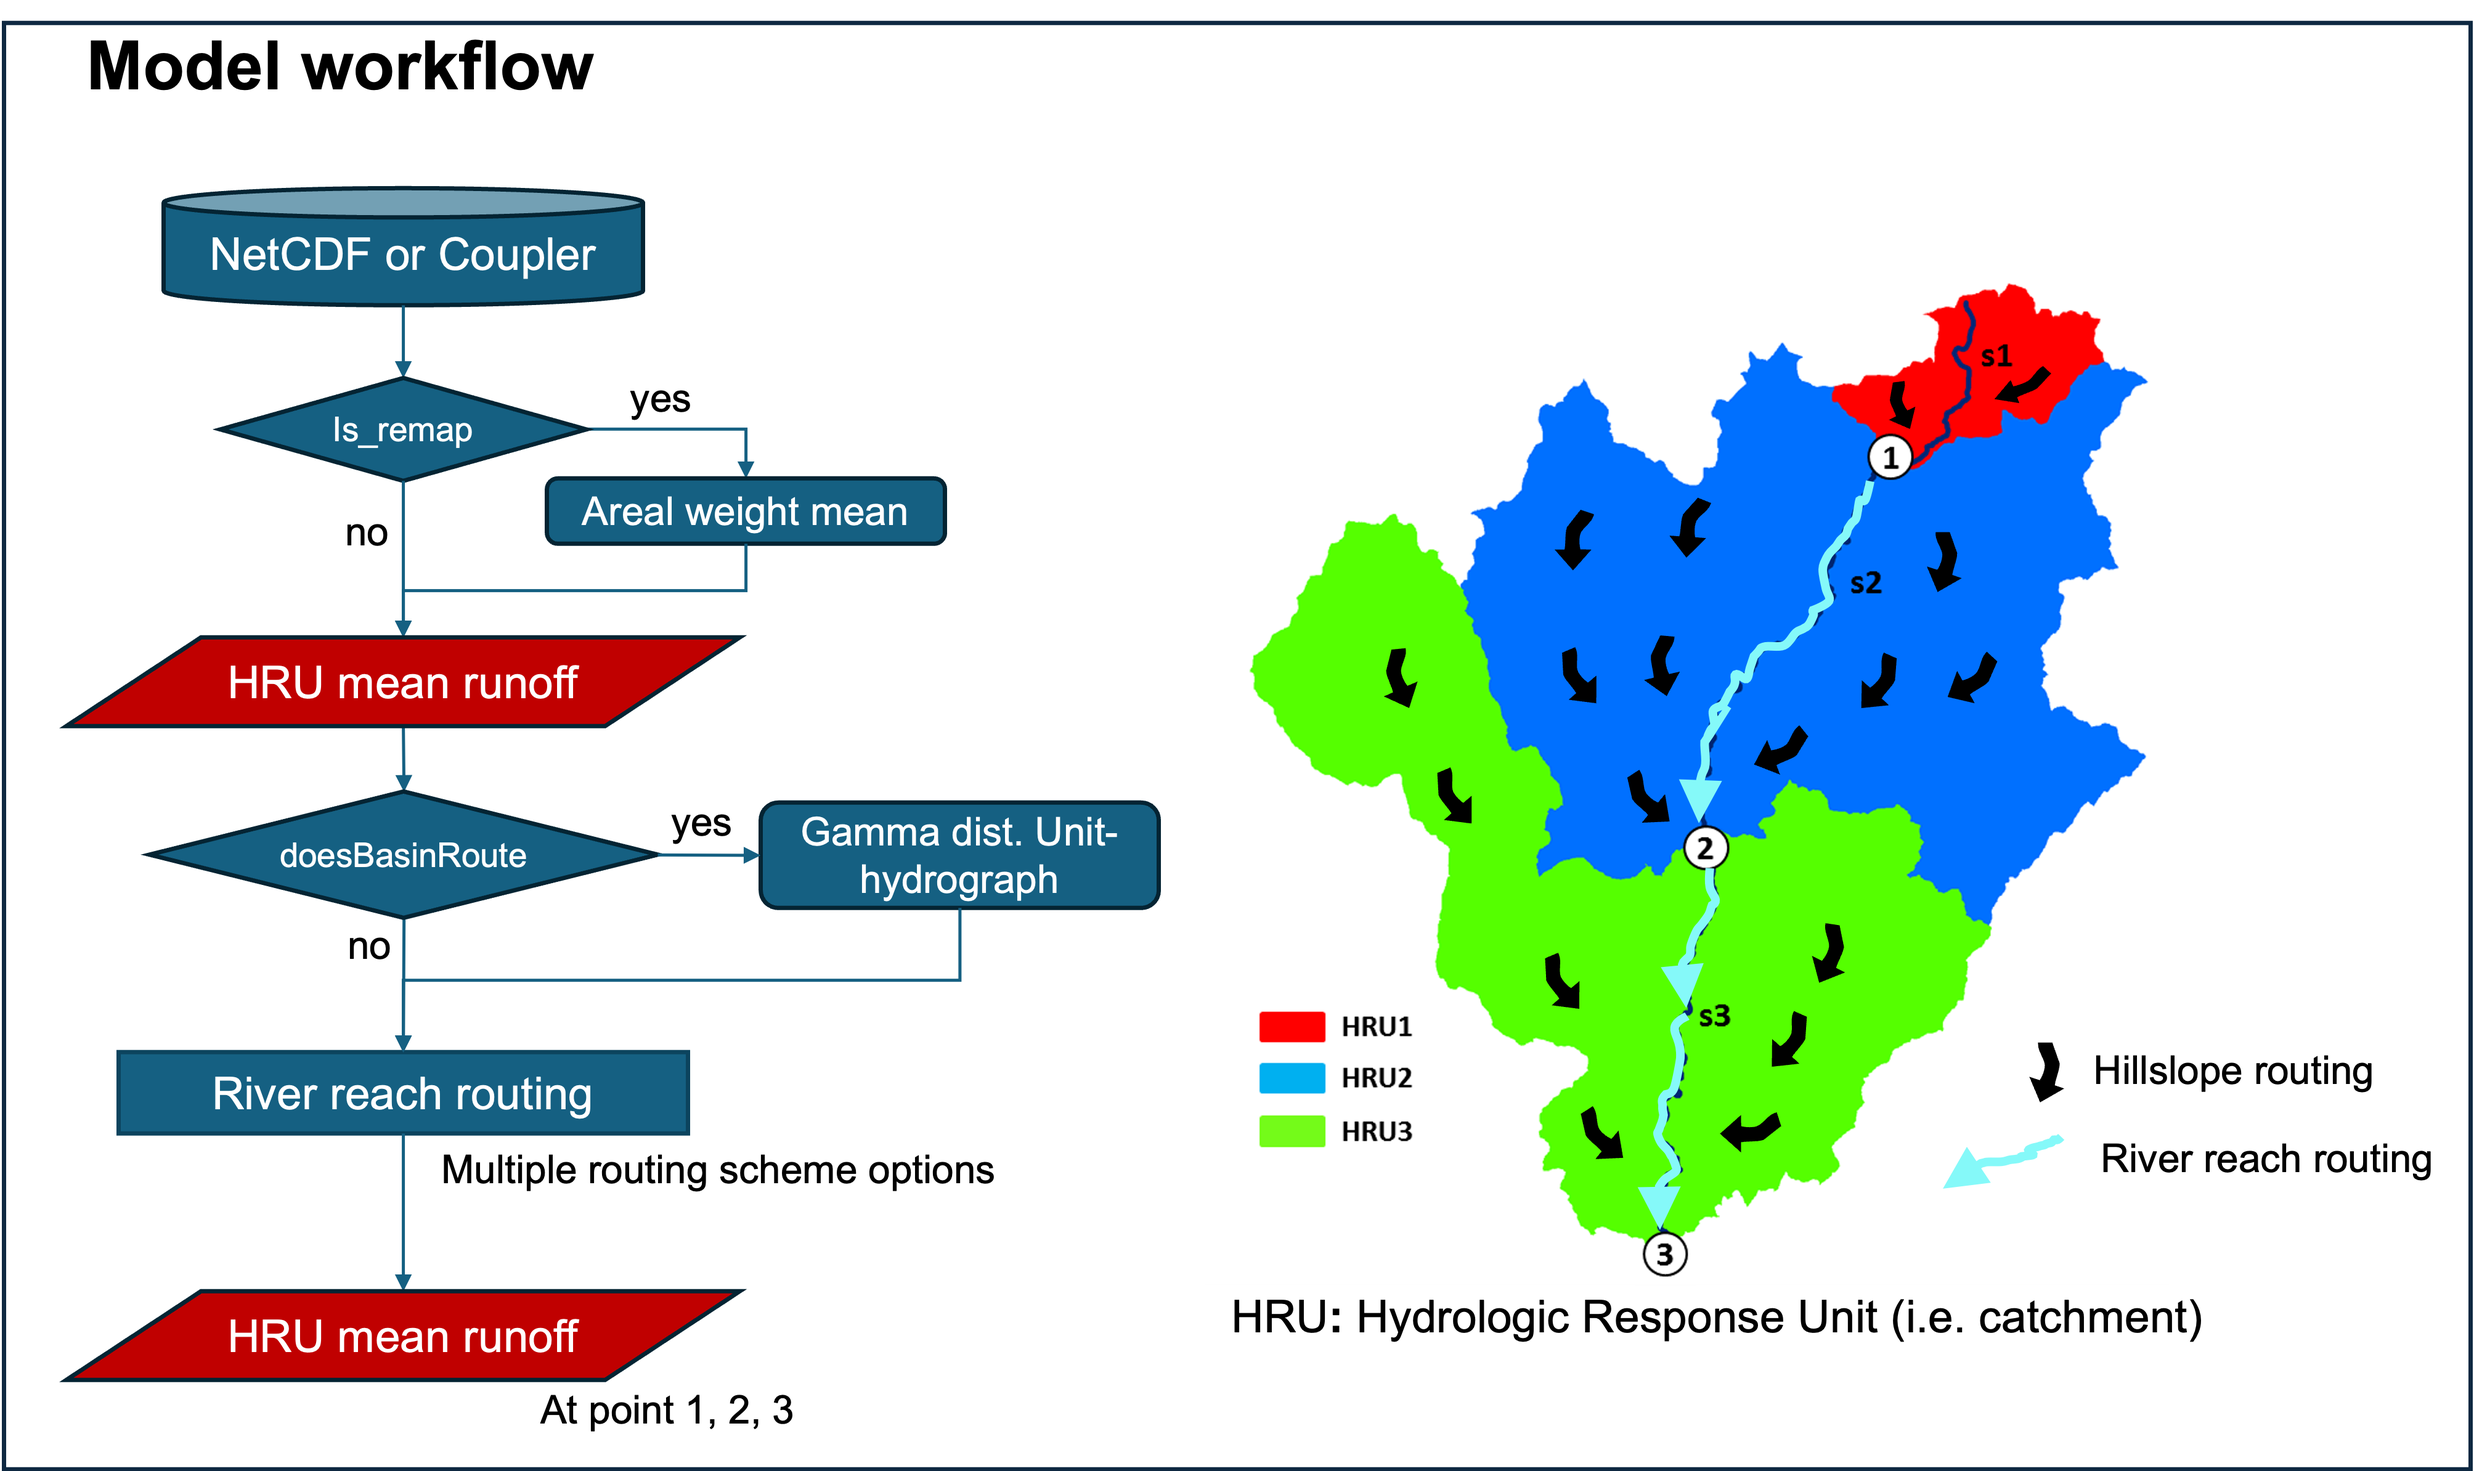
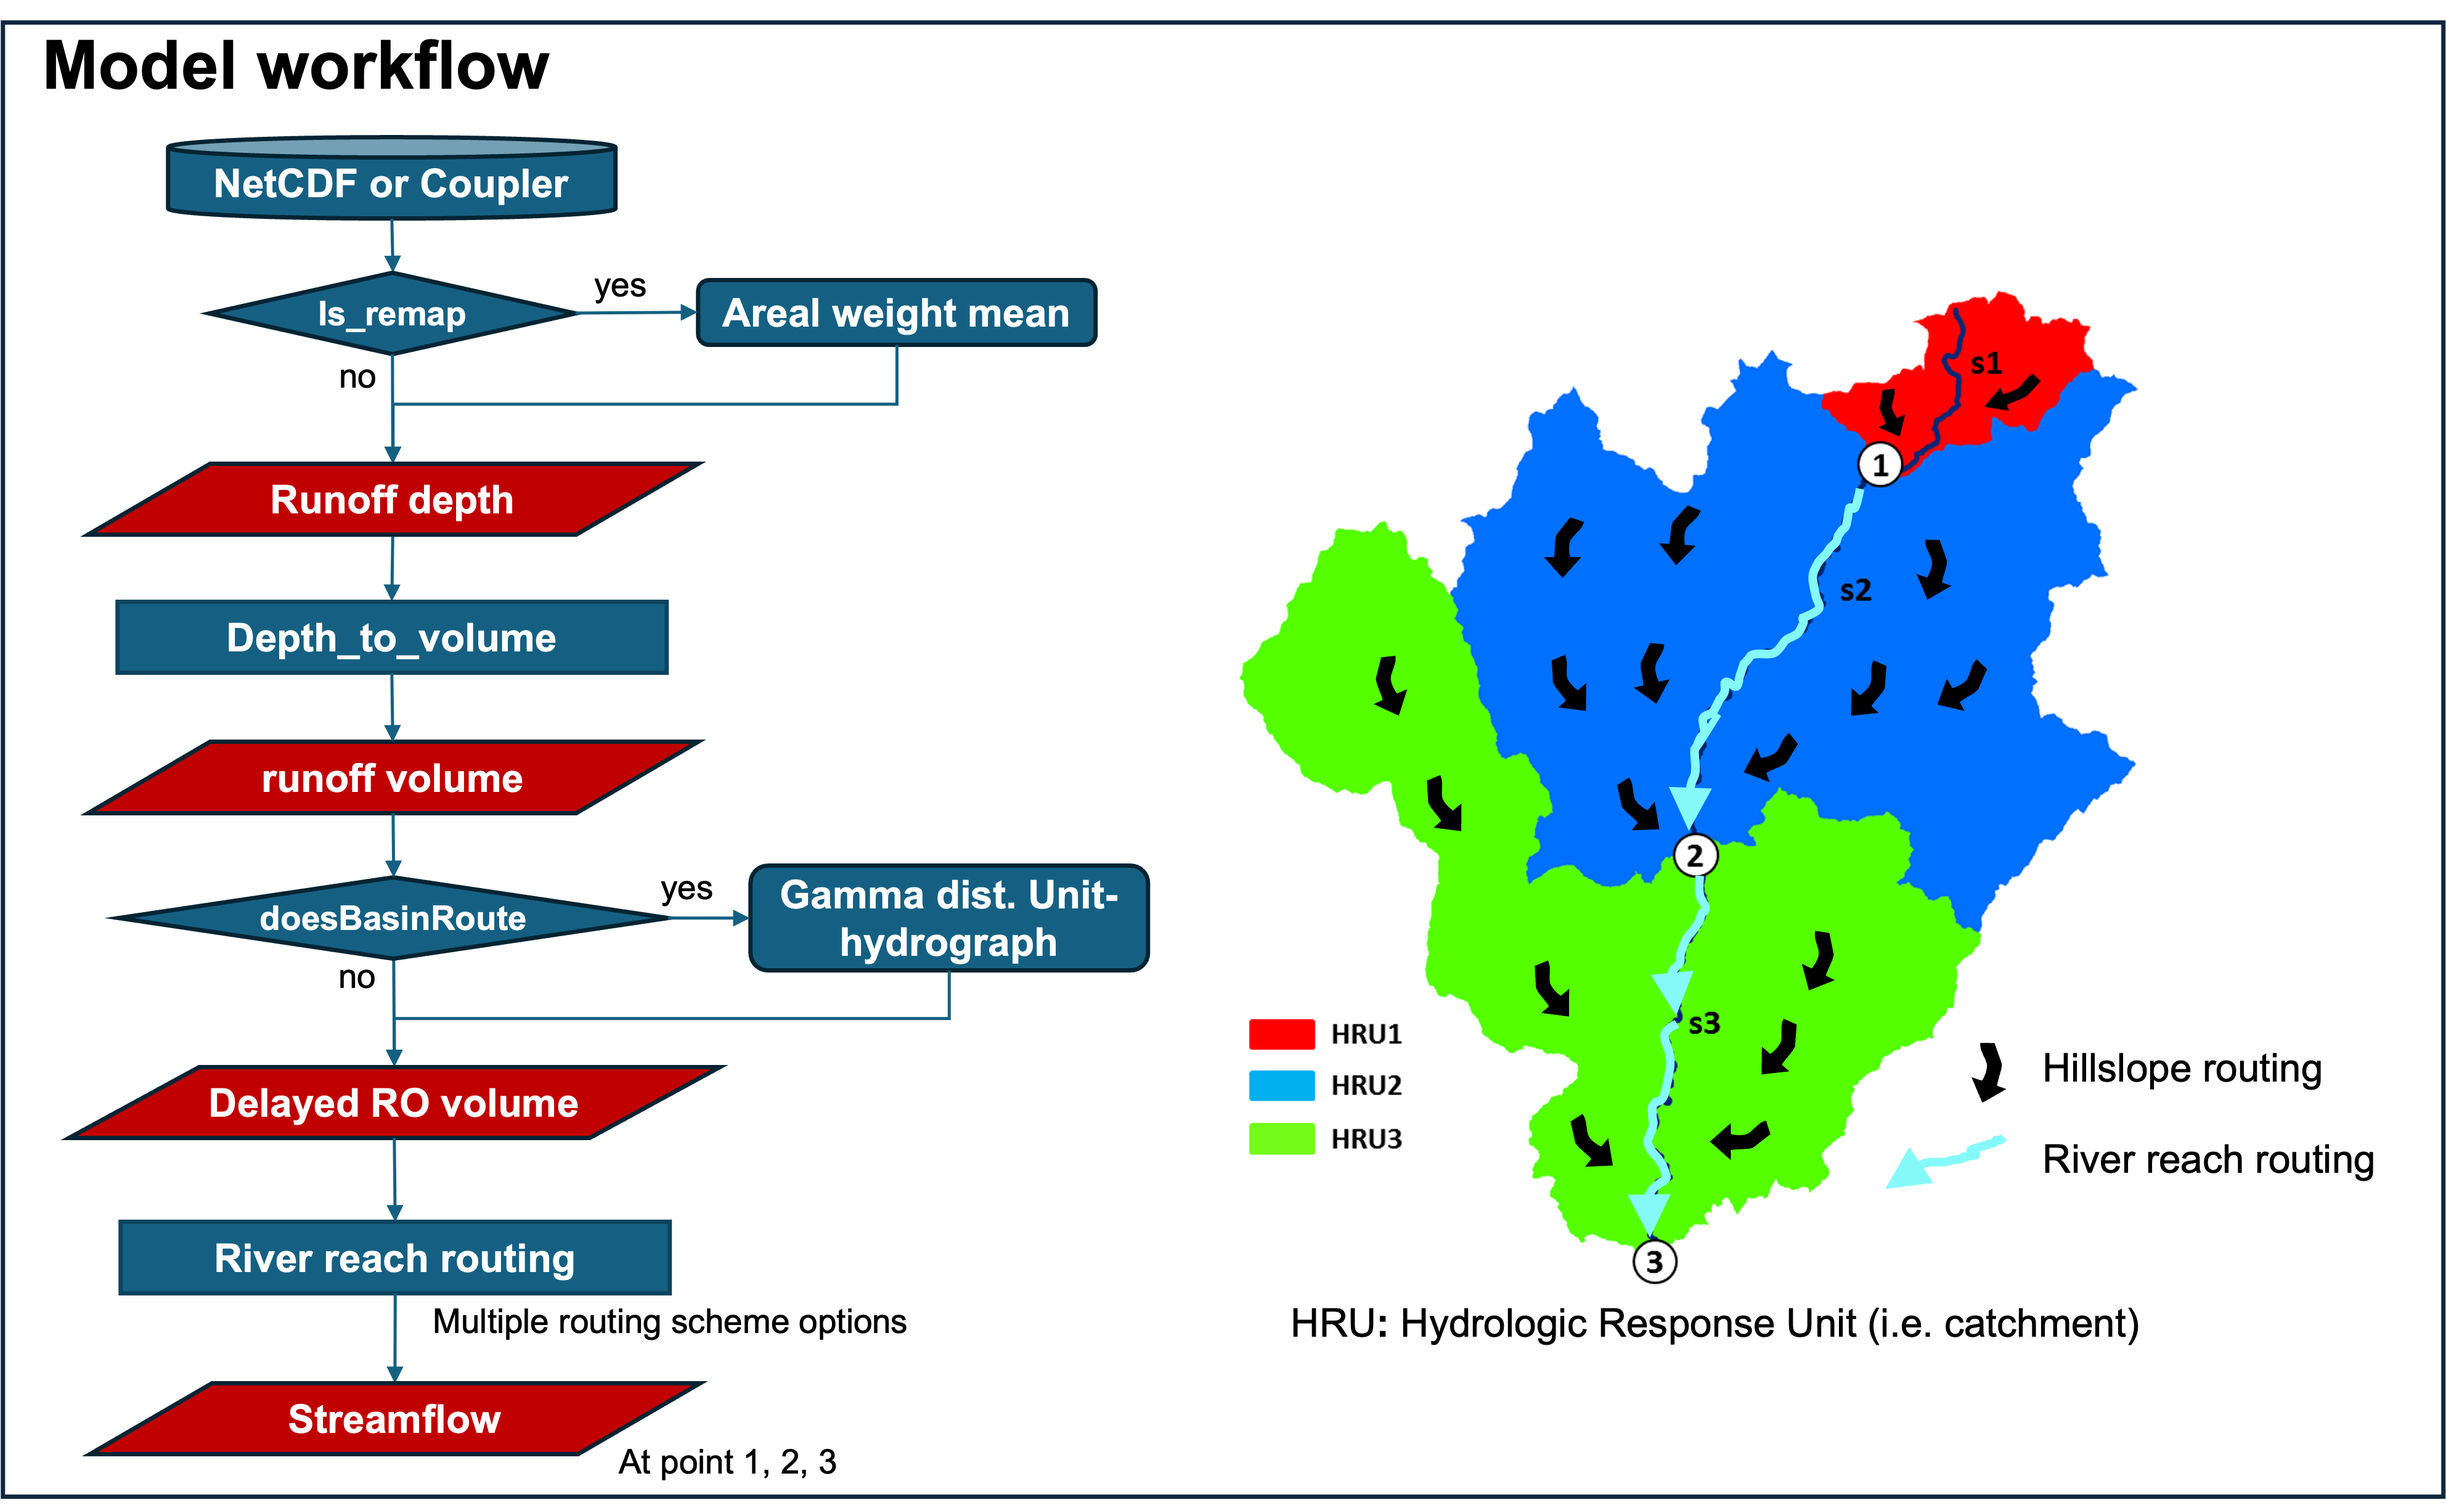
update overall routing procedure

diff --git a/docs/source/tech_note/reach_routing.rst b/docs/source/tech_note/reach_routing.rst
@@ -6,20 +6,21 @@ Overall workflow
 
 Overall computation workflow is shown in :numref:`Figure_overall_comp_workflow`.
 
-#. Compute HRU (Hydrologic Response Unit, or simply catchment) mean runoff [m/s]
+#. Compute HRU (Hydrologic Response Unit, or simply catchment) mean runoff [m/s], :math:`R_{lat}`, if runoff is given at hydrologic model HRU.
 
-#. Perform overland routing with HRU mean runoff as an input to compute lateral runoff (:math:`R_{lat}`) [m/s]
+#. Convert :math:`R_{lat}` from depth unit to volume (:math:`R_{lat}` times HRU area) to get lateral runoff volume (:math:`q_{lat}`) [m3/s]
 
-#. Convert :math:`R_{lat}` from depth unit to volume (lateral runoff times HRU area) to get lateral discharge (:math:`q_{lat}`) [m3/s]
+#. Perform overland routing to delay lateral runoff volume.
 
-#. Route lateral discharge at each river reach through river network.
+#. Route delayed lateral discharge at each river reach through river network.
 
 The overland routing is optional, and currently simple unit hydrograph based on gamma distribution is used to delay instantaneous runoff.
 
 .. _Figure_overall_comp_workflow:
 
 .. figure:: images/overall_comp_workflow.png
- :width: 600
+ :width: 700
+ :height: 400
 
  Overall routing procedures from runoff input into model to streamflow computation.
 
